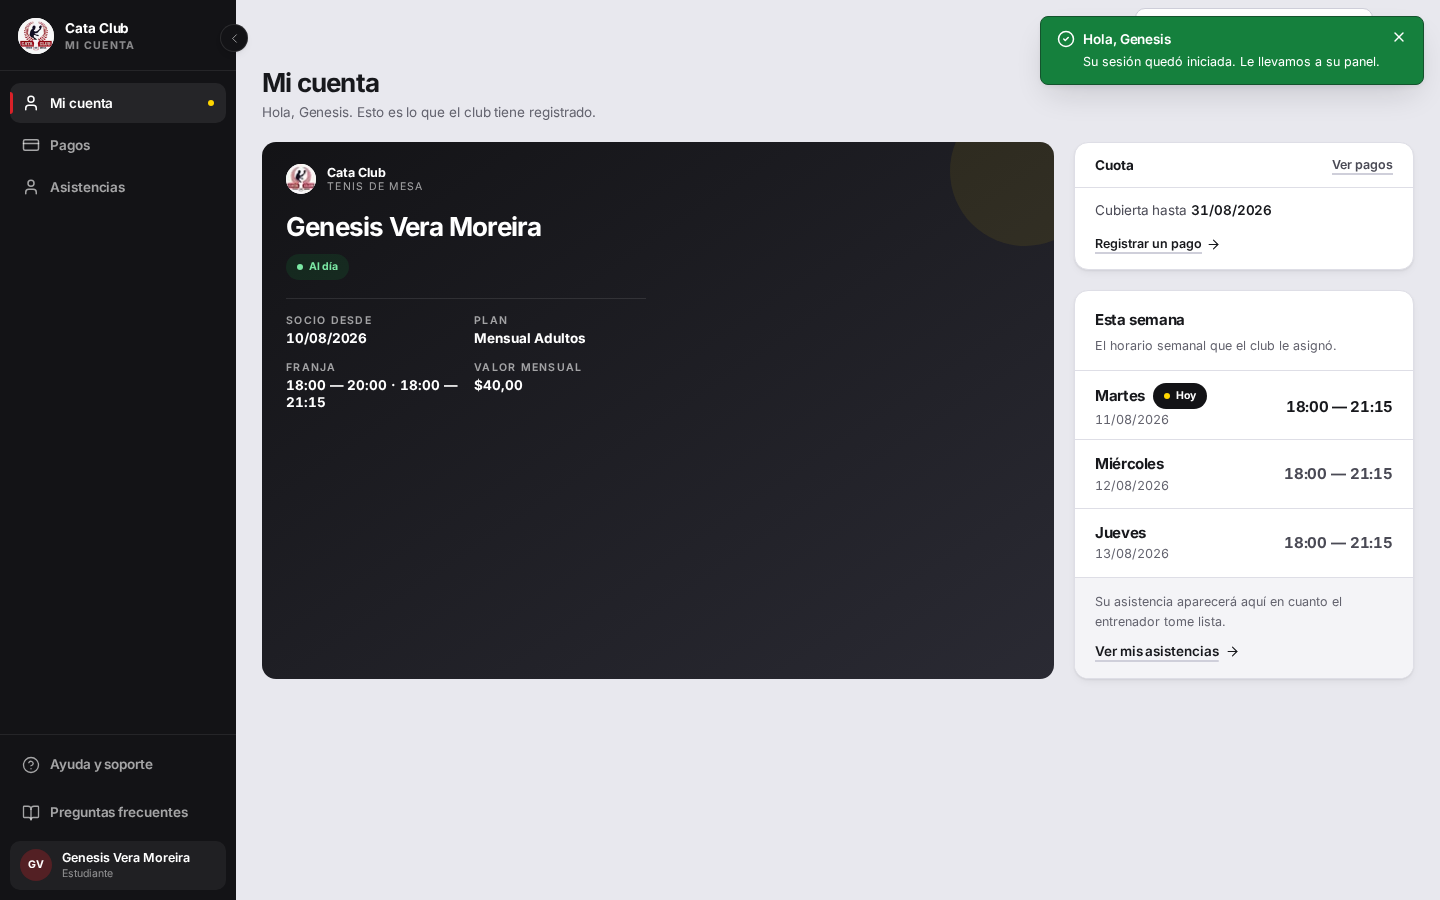
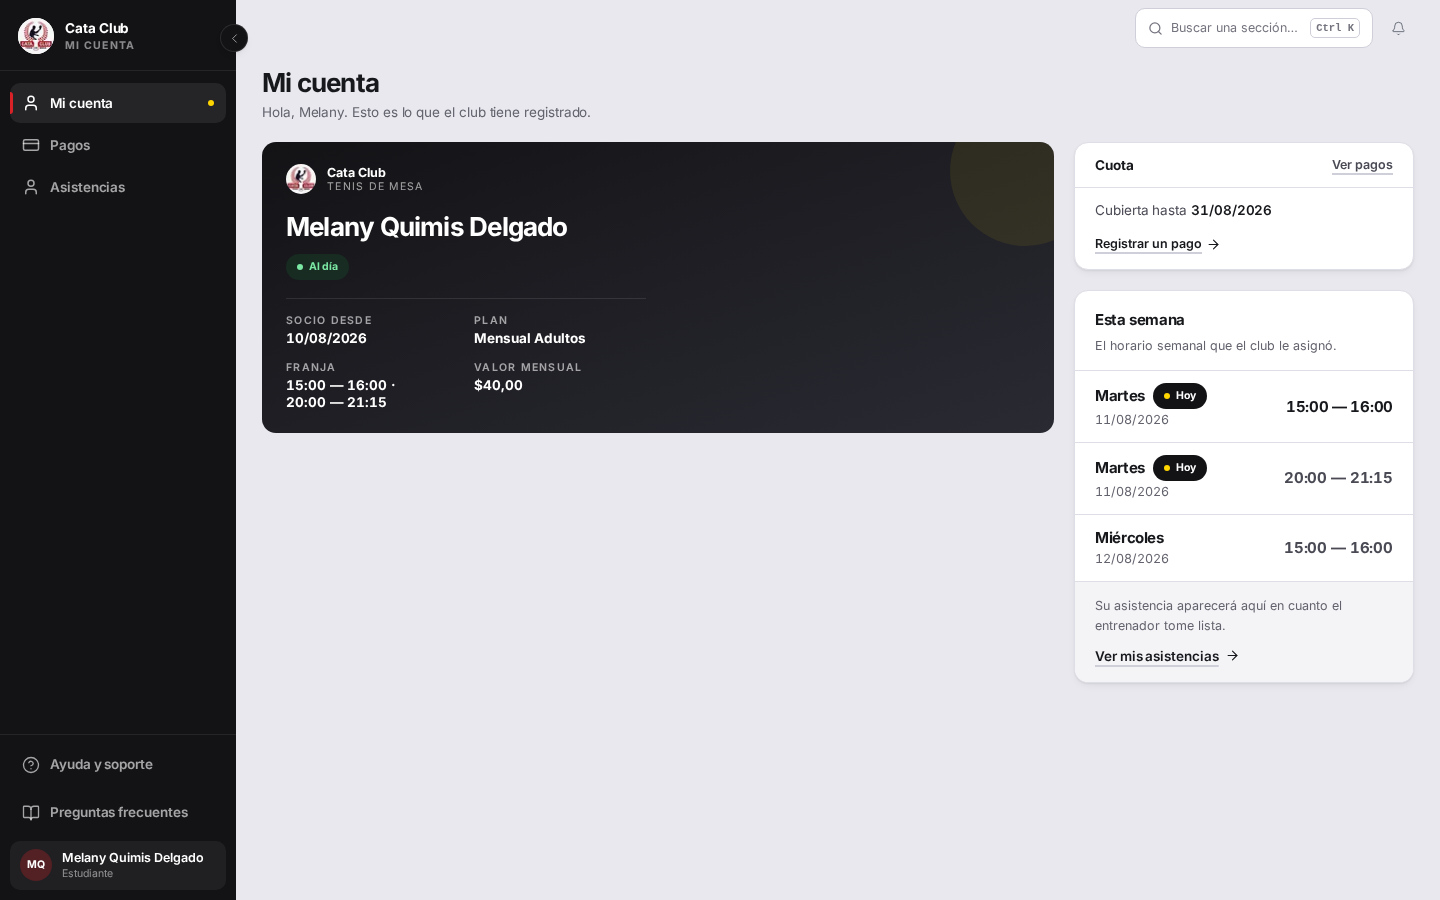
docs(fixes): document the carnet stretch and franja wrap correction
New captures for the four cases (vencida/al día, 1440x900/390x844)
replace the ones that showed the stretch bug, and the whitespace
metric section is rewritten: the old "canvas below the last content
row" method could not see emptiness INSIDE the carnet by design, since
the carnet has content above the gap. Recorded as a lesson instead of
patching the table with another number.

diff --git a/docs/fixes/12-mi-cuenta-carnet.md b/docs/fixes/12-mi-cuenta-carnet.md
@@ -10,6 +10,9 @@
 - **Commits:**
   - `ec20622` — feat(student): make the carnet lead Mi cuenta, weighted by cuota status
   - `a9768d9` — docs(fixes): document the Mi cuenta carnet redesign
+  - `6391768` — fix(student): stop the carnet from stretching and the franja splitting
+    (corrección 12b, ver más abajo — dos defectos visuales encontrados revisando
+    la implementación contra capturas reales)
 
 ## El problema
 
@@ -79,6 +82,34 @@ La tarjeta «Cuota» sigue la misma regla: se comprime a una sola línea
 botón grande) únicamente cuando el estado es `covered`. El espacio que cede
 lo toma «Esta semana» de forma natural, sin necesitar redimensionarla a mano.
 
+## Corrección 12b — dos defectos que la primera pasada no vio
+
+La primera versión hacía que el carnet se **estirara** (`lg:!items-stretch`
+en el grid de `PAGE_RAIL` más `flex-1` en el propio carnet) para igualar el
+alto de la columna derecha (Cuota + Esta semana). La intención era cerrar el
+"vacío que no se llena" que tenía la pantalla vieja. El resultado real, visto
+en una captura contra datos reales: cuando la columna derecha era más alta
+que el contenido del carnet, el carnet crecía igual — y los ~400px de
+diferencia quedaban como canvas negro vacío **adentro** del carnet, debajo de
+«Franja / Valor mensual». El vacío no desapareció: se mudó de la página al
+carnet.
+
+La solución: el carnet **no se estira**. Vuelve a la altura natural,
+alineado arriba con la columna derecha (`PAGE_RAIL` sin overrides). Un
+carnet tiene proporción de carnet, no de columna — y el margen que queda
+debajo, en la columna izquierda, es canvas de página normal (el mismo tipo
+de espacio que cualquier columna corta deja), no un hueco dentro de una
+tarjeta con borde propio.
+
+El segundo defecto: una «Franja» con dos horarios ("15:00 — 16:00 · 20:00 —
+21:15") es una sola cadena en una celda de ~172px, así que el navegador
+envolvía la línea donde encontraba un espacio — incluso adentro de un mismo
+horario, partiendo "20:00 —" de "21:15" en dos renglones. Un alumno con dos
+franjas no es un caso raro (el de la captura está en dos categorías a la
+vez), así que había que resolverlo. Cada horario ahora vive en su propio
+`<span className="whitespace-nowrap">`; el único punto donde el navegador
+puede cortar la línea es el " · " entre dos horarios, nunca adentro de uno.
+
 ## El candado
 
 `StudentPage — the carnet earns its space when the cuota is up to date` en
@@ -96,35 +127,83 @@ ambos estados, el test se pone rojo.
       Tests  37 passed (37)
 ```
 
+**Candado de la corrección 12b**, mismo archivo:
+
+- `StudentPage — the carnet keeps its own proportions instead of stretching >
+  does not force the carnet's height to match the rail's` — el carnet no
+  lleva `flex-1` y el grid que lo separa de la columna derecha no lleva
+  `items-stretch`. Si alguien reintroduce el estiramiento, el test se pone
+  rojo.
+- `StudentPage — the carnet's franja agrees with the assigned schedule >
+  keeps each window as one unbreakable run so a wrap can never split a time
+  in half` — cada horario de una «Franja» con dos ventanas vive en su propio
+  `whitespace-nowrap`, y el valor completo sigue leyéndose igual
+  ("15:00 — 16:00 · 20:00 — 21:15").
+
+```
+✓ StudentPage — the carnet keeps its own proportions instead of stretching > does not force the carnet's height to match the rail's
+✓ StudentPage — the carnet's franja agrees with the assigned schedule > keeps each window as one unbreakable run so a wrap can never split a time in half
+
+ Test Files  1 passed (1)
+      Tests  39 passed (39)
+```
+
 ## La prueba
 
 ![después — cuota vencida](img/12-mi-cuenta-despues-vencida-1440x900.png)
 ![después — al día](img/12-mi-cuenta-despues-al-dia-1440x900.png)
 ![después — cuota vencida, teléfono](img/12-mi-cuenta-despues-vencida-390x844.png)
 ![después — al día, teléfono](img/12-mi-cuenta-despues-al-dia-390x844.png)
-![después — representante con 4 hijos](img/12-mi-cuenta-despues-representante-1440x900.png)
-![después — alumna autogestionada](img/12-mi-cuenta-despues-autogestionada-1440x900.png)
 
-Lo que antes no se veía: el carnet ocupa la columna ancha y llena el alto de
-la fila (nada de canvas vacío debajo), la banda cambia de tamaño según haya
-algo que resolver, y en el caso «al día» la tarjeta Cuota se reduce a una
-línea mientras «Esta semana» gana el espacio que esa tarjeta cede.
+Las cuatro capturas son de la corrección 12b, sacadas contra un backend
+propio levantado desde este worktree apuntando a la base de QA compartida
+(ver la nota al final). Reemplazan a las de la pasada anterior, que mostraban
+el defecto que esta corrección cierra.
 
-### El espacio en blanco, medido
+Lo que se ve ahora: el carnet termina justo debajo de su grid de datos —
+altura natural, sin canvas vacío adentro — y en «cuota vencida» la «Franja»
+con dos horarios (15:00 — 16:00 y 20:00 — 21:15) envuelve entre un horario y
+el otro, nunca partiendo un horario por la mitad. La banda sigue cambiando de
+peso según haya algo que resolver, y en «al día» la tarjeta Cuota se
+mantiene comprimida a una línea.
 
-Mismo método que el panel del entrenador: por cada captura de 1440×900, la
-fila más baja con contenido real (fuera de la barra lateral), y el
-porcentaje de canvas vacío por debajo de esa fila.
+*(Las capturas "representante con 4 hijos" y "alumna autogestionada" de la
+pasada anterior no se regeneraron — no estaban en el alcance de esta
+corrección — así que se sacaron de esta lista en vez de dejarlas
+desactualizadas junto a las cuatro nuevas.)*
 
-| Estado | Antes | Después |
-|---|---|---|
-| Cuota vencida | 27,2 % | 11,1 % |
-| Al día | 30,6 % | 24,2 % |
+### El espacio en blanco — la medición que esta corrección obligó a arreglar
 
-El caso «al día» sigue con más margen que «vencida» — es la consecuencia
-directa de comprimir la tarjeta Cuota cuando no hay nada que resolver — pero
-baja igual frente al antes, porque el carnet ahora llena su columna en vez
-de quedarse en 340px.
+La tabla de "antes/después" de la pasada anterior medía, por cada captura de
+1440×900, la fila más baja con contenido real y el porcentaje de canvas
+vacío **por debajo** de esa fila — el mismo método que el panel del
+entrenador. Con esa vara, el caso «vencida» pasó de 27,2 % a 11,1 %: una
+mejora real y bien medida.
+
+Pero el defecto que esta corrección cierra — los ~400px de negro vacío
+**adentro** del carnet, entre el grid de datos y el borde inferior de la
+tarjeta — no podía aparecer en ese número, por diseño del método: el carnet
+tiene contenido arriba de ese hueco (el nombre, la banda, el grid de
+"Franja / Valor mensual"), así que "la fila más baja con contenido real" caía
+más abajo que el hueco mismo, y todo lo que hay entre el contenido y el borde
+de la tarjeta queda fuera de lo que el método mira. El 11,1 % de "después"
+convivió con la pantalla de la captura mostrando un rectángulo medio vacío,
+y el número no lo contradijo porque nunca pudo verlo.
+
+No reemplazo esa tabla por otra automática: la métrica midió lo fácil de
+medir (canvas de página, un problema real y distinto) y no lo que importaba
+acá (canvas dentro de un elemento con contenido propio arriba). Fabricar un
+segundo número con el mismo apuro que produjo el primero sería repetir el
+error con más decimales. La prueba de esta corrección es la captura de
+arriba: el carnet termina donde termina su contenido, sin franja negra
+sobrante debajo del grid de datos, en los dos estados (vencida y al día) y
+en los dos anchos (1440px y 390px) — mirala y comparala con la de la pasada
+anterior si hace falta el contraste.
+
+**La lección:** un número que no coincide con lo que se ve es peor que no
+tener número. Antes de reusar una métrica para un caso nuevo, hay que
+preguntar qué puede y qué no puede ver — no solo si el método ya funcionó en
+otra pantalla.
 
 ## Lo que NO cambió
 
